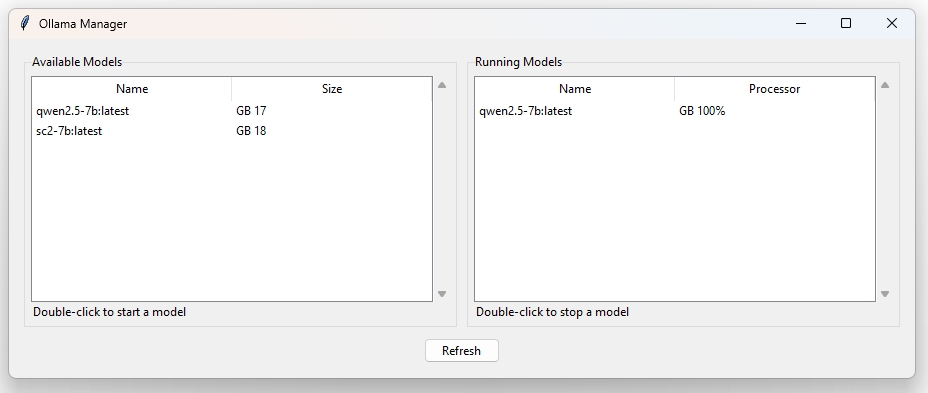
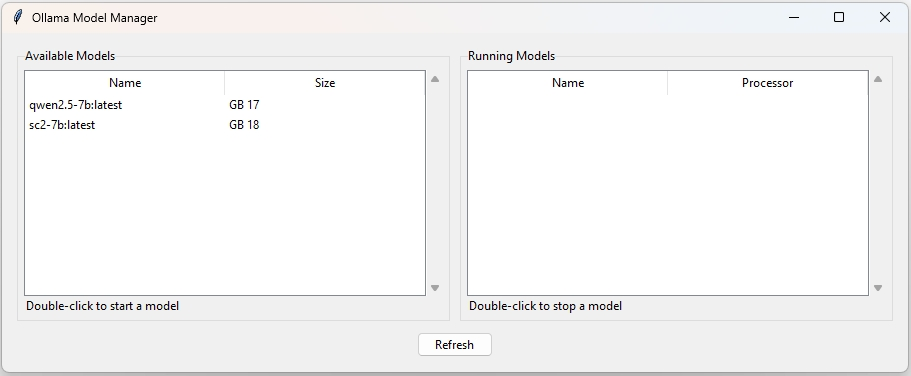
update

diff --git a/main.py b/main.py
@@ -6,7 +6,7 @@ import json
 class OllamaGUI:
     def __init__(self, root):
         self.root = root
-        self.root.title("Ollama Manager")
+        self.root.title("Ollama Model Manager")
         
         # Create main frame
         main_frame = ttk.Frame(root, padding="10")

diff --git a/README.md b/README.md
@@ -1,8 +1,8 @@
-# Ollama GUI Manager
+# Ollama Model Manager
 
 A simple graphical user interface for managing Ollama models. This tool provides a user-friendly way to view, start, and stop Ollama models without using the command line.
 
-![Ollama GUI Manager Screenshot](screenshot.png)
+![Ollama Model Manager Screenshot](screenshot.png)
 
 ## Features
 
